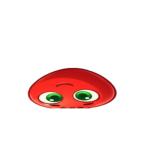
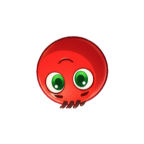
fix flight first-frame flash and restore landing squash

Changed region(s): [[0.1667, 0.25, 0.8333, 0.7778]]

diff --git a/tools/build_v12_atlas.py b/tools/build_v12_atlas.py
@@ -26,7 +26,7 @@ def main() -> int:
     total = 0
     for name, meta in data.items():
         frames = int(meta["frames"])
-        phi = meta.get("phi_deg") or []
+        phi = list(meta.get("phi_deg") or [])
         if len(phi) != frames:
             raise SystemExit(f"{name}: phi len {len(phi)} != frames {frames}")
         src_dir = SRC / "frames" / name
@@ -41,7 +41,13 @@ def main() -> int:
             if src.name != expected:
                 raise SystemExit(f"{name}: unexpected {src.name}, expected {expected}")
             dst = dst_dir / src.name
-            shutil.copyfile(src, dst)
+            # Flight clips: frame 1 is the flattened contact pose. Use frame 2
+            # (round) as the first flight frame so it never flashes separately.
+            copy_src = src
+            if name.startswith("flight_") and index == 1:
+                copy_src = src_files[1]
+                phi[0] = phi[1]
+            shutil.copyfile(copy_src, dst)
             rel = f"/main/bumpy_v12/frames/{name}/{src.name}"
             images.append(rel)
             anim_images.append(rel)
